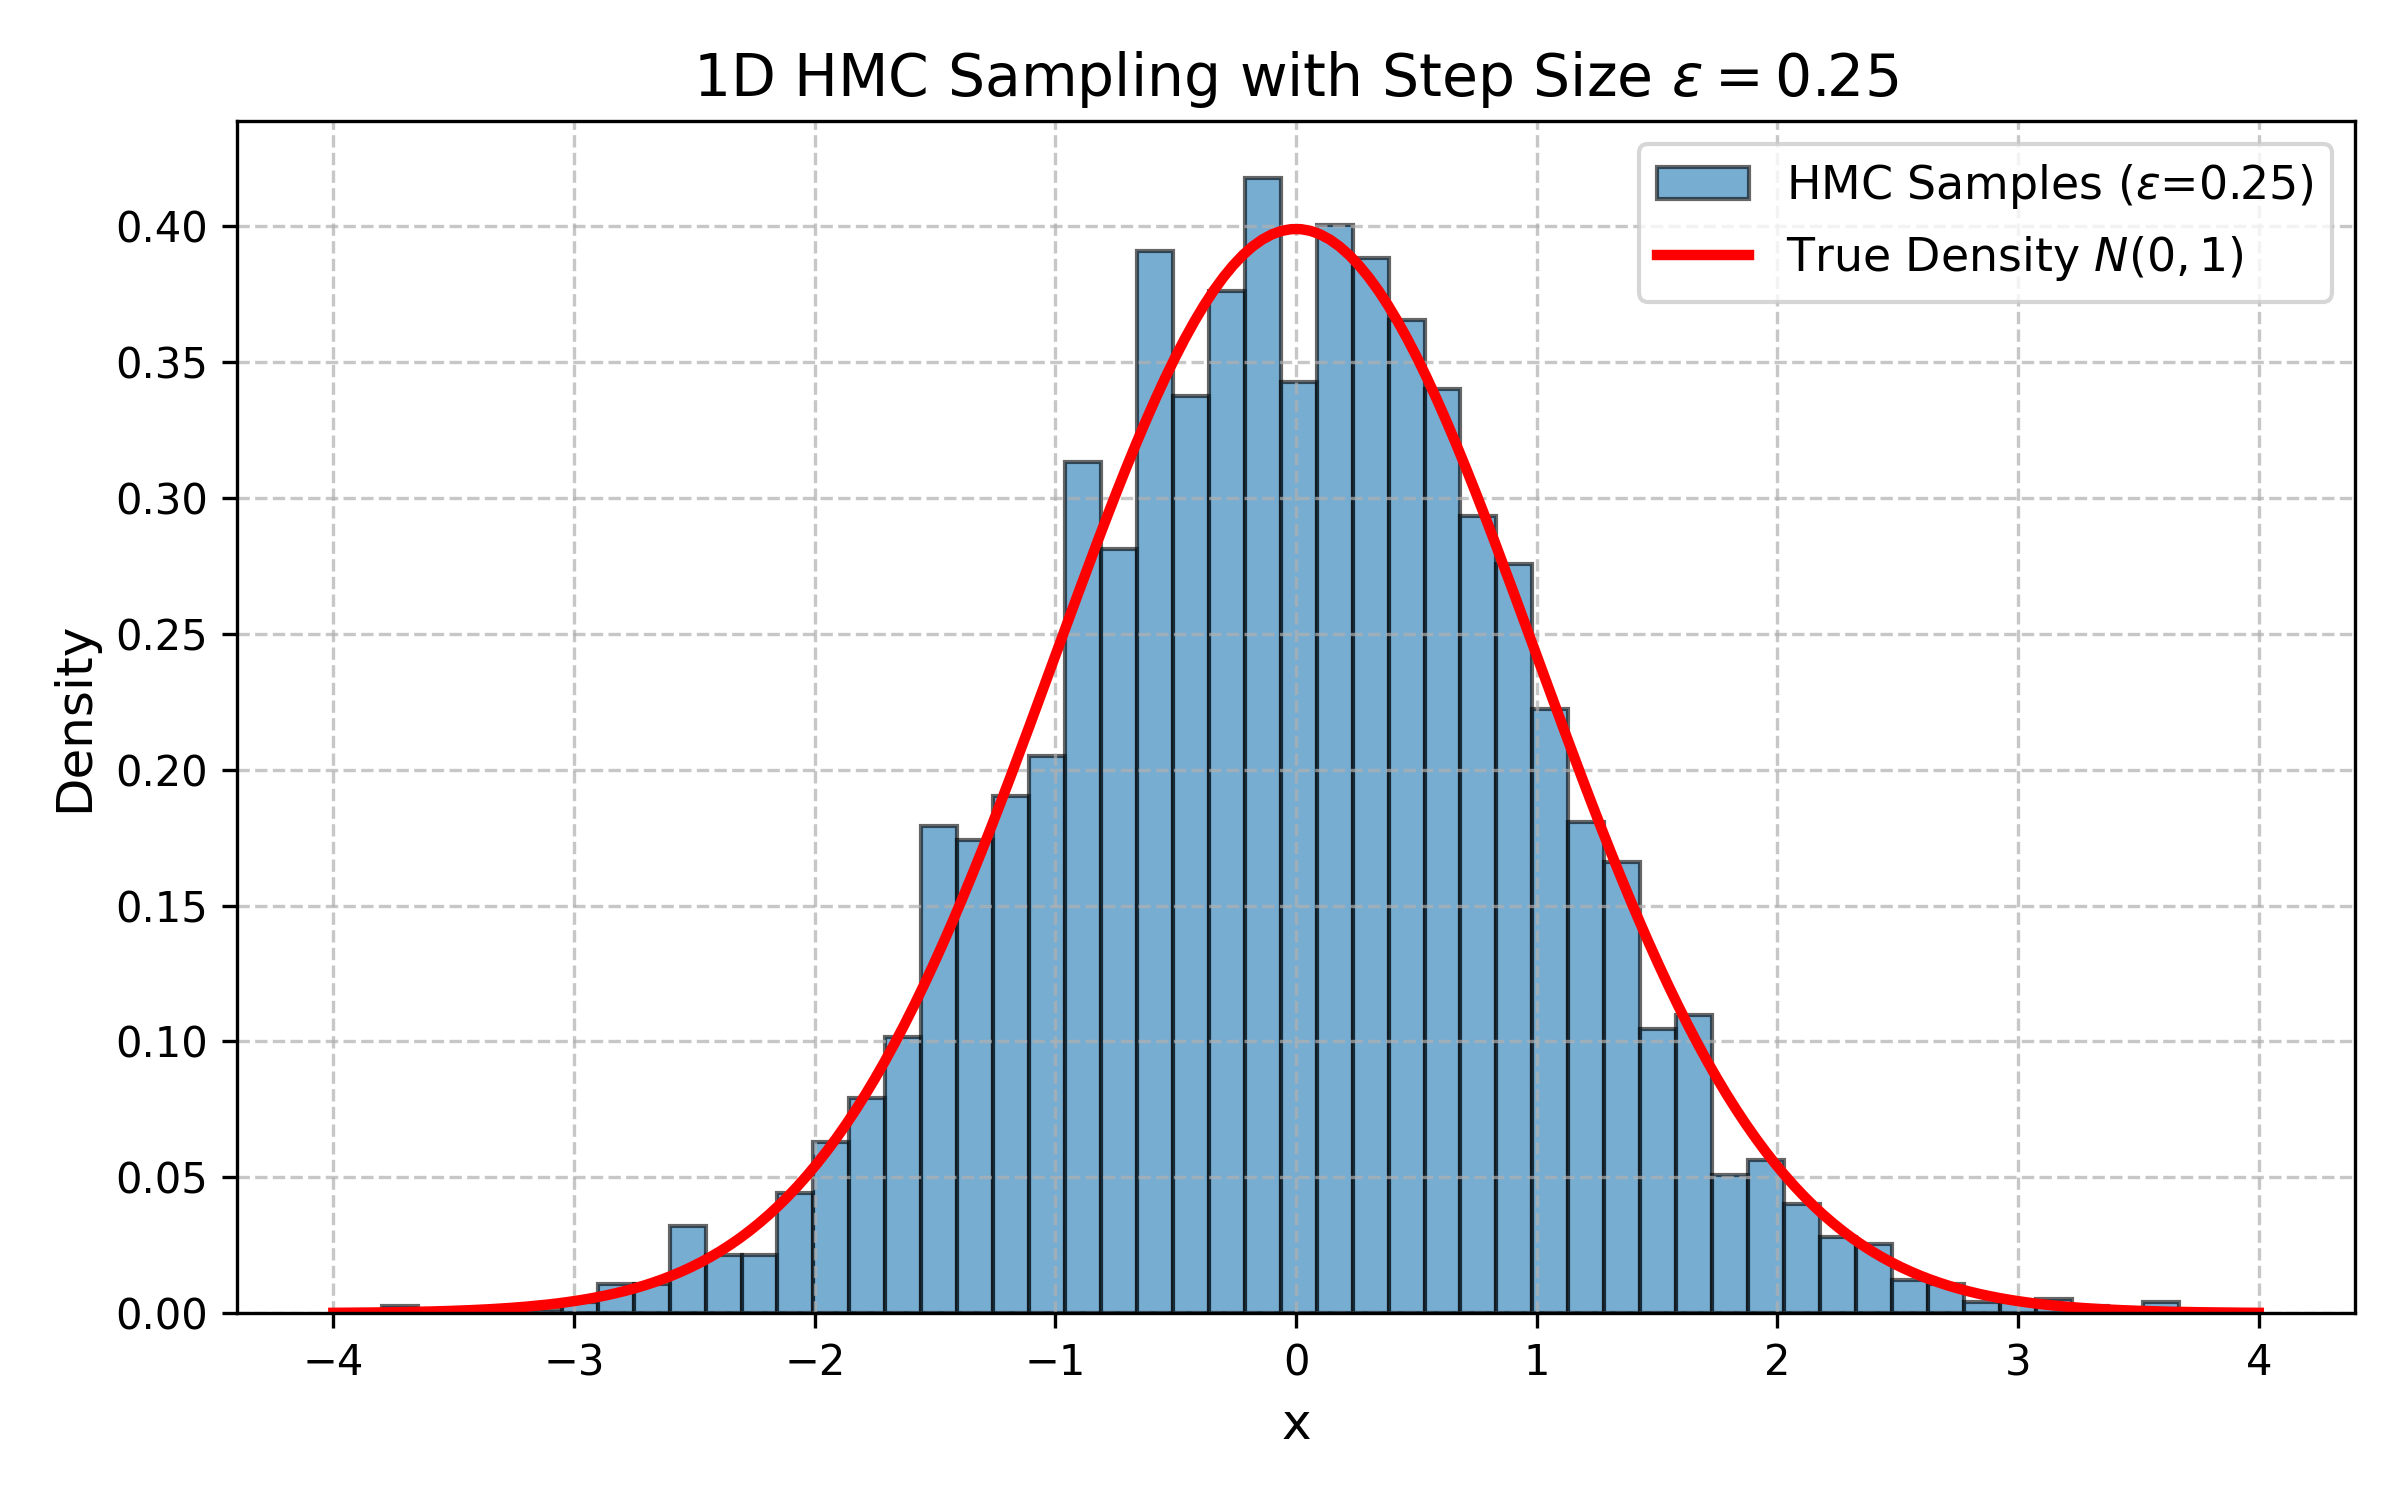
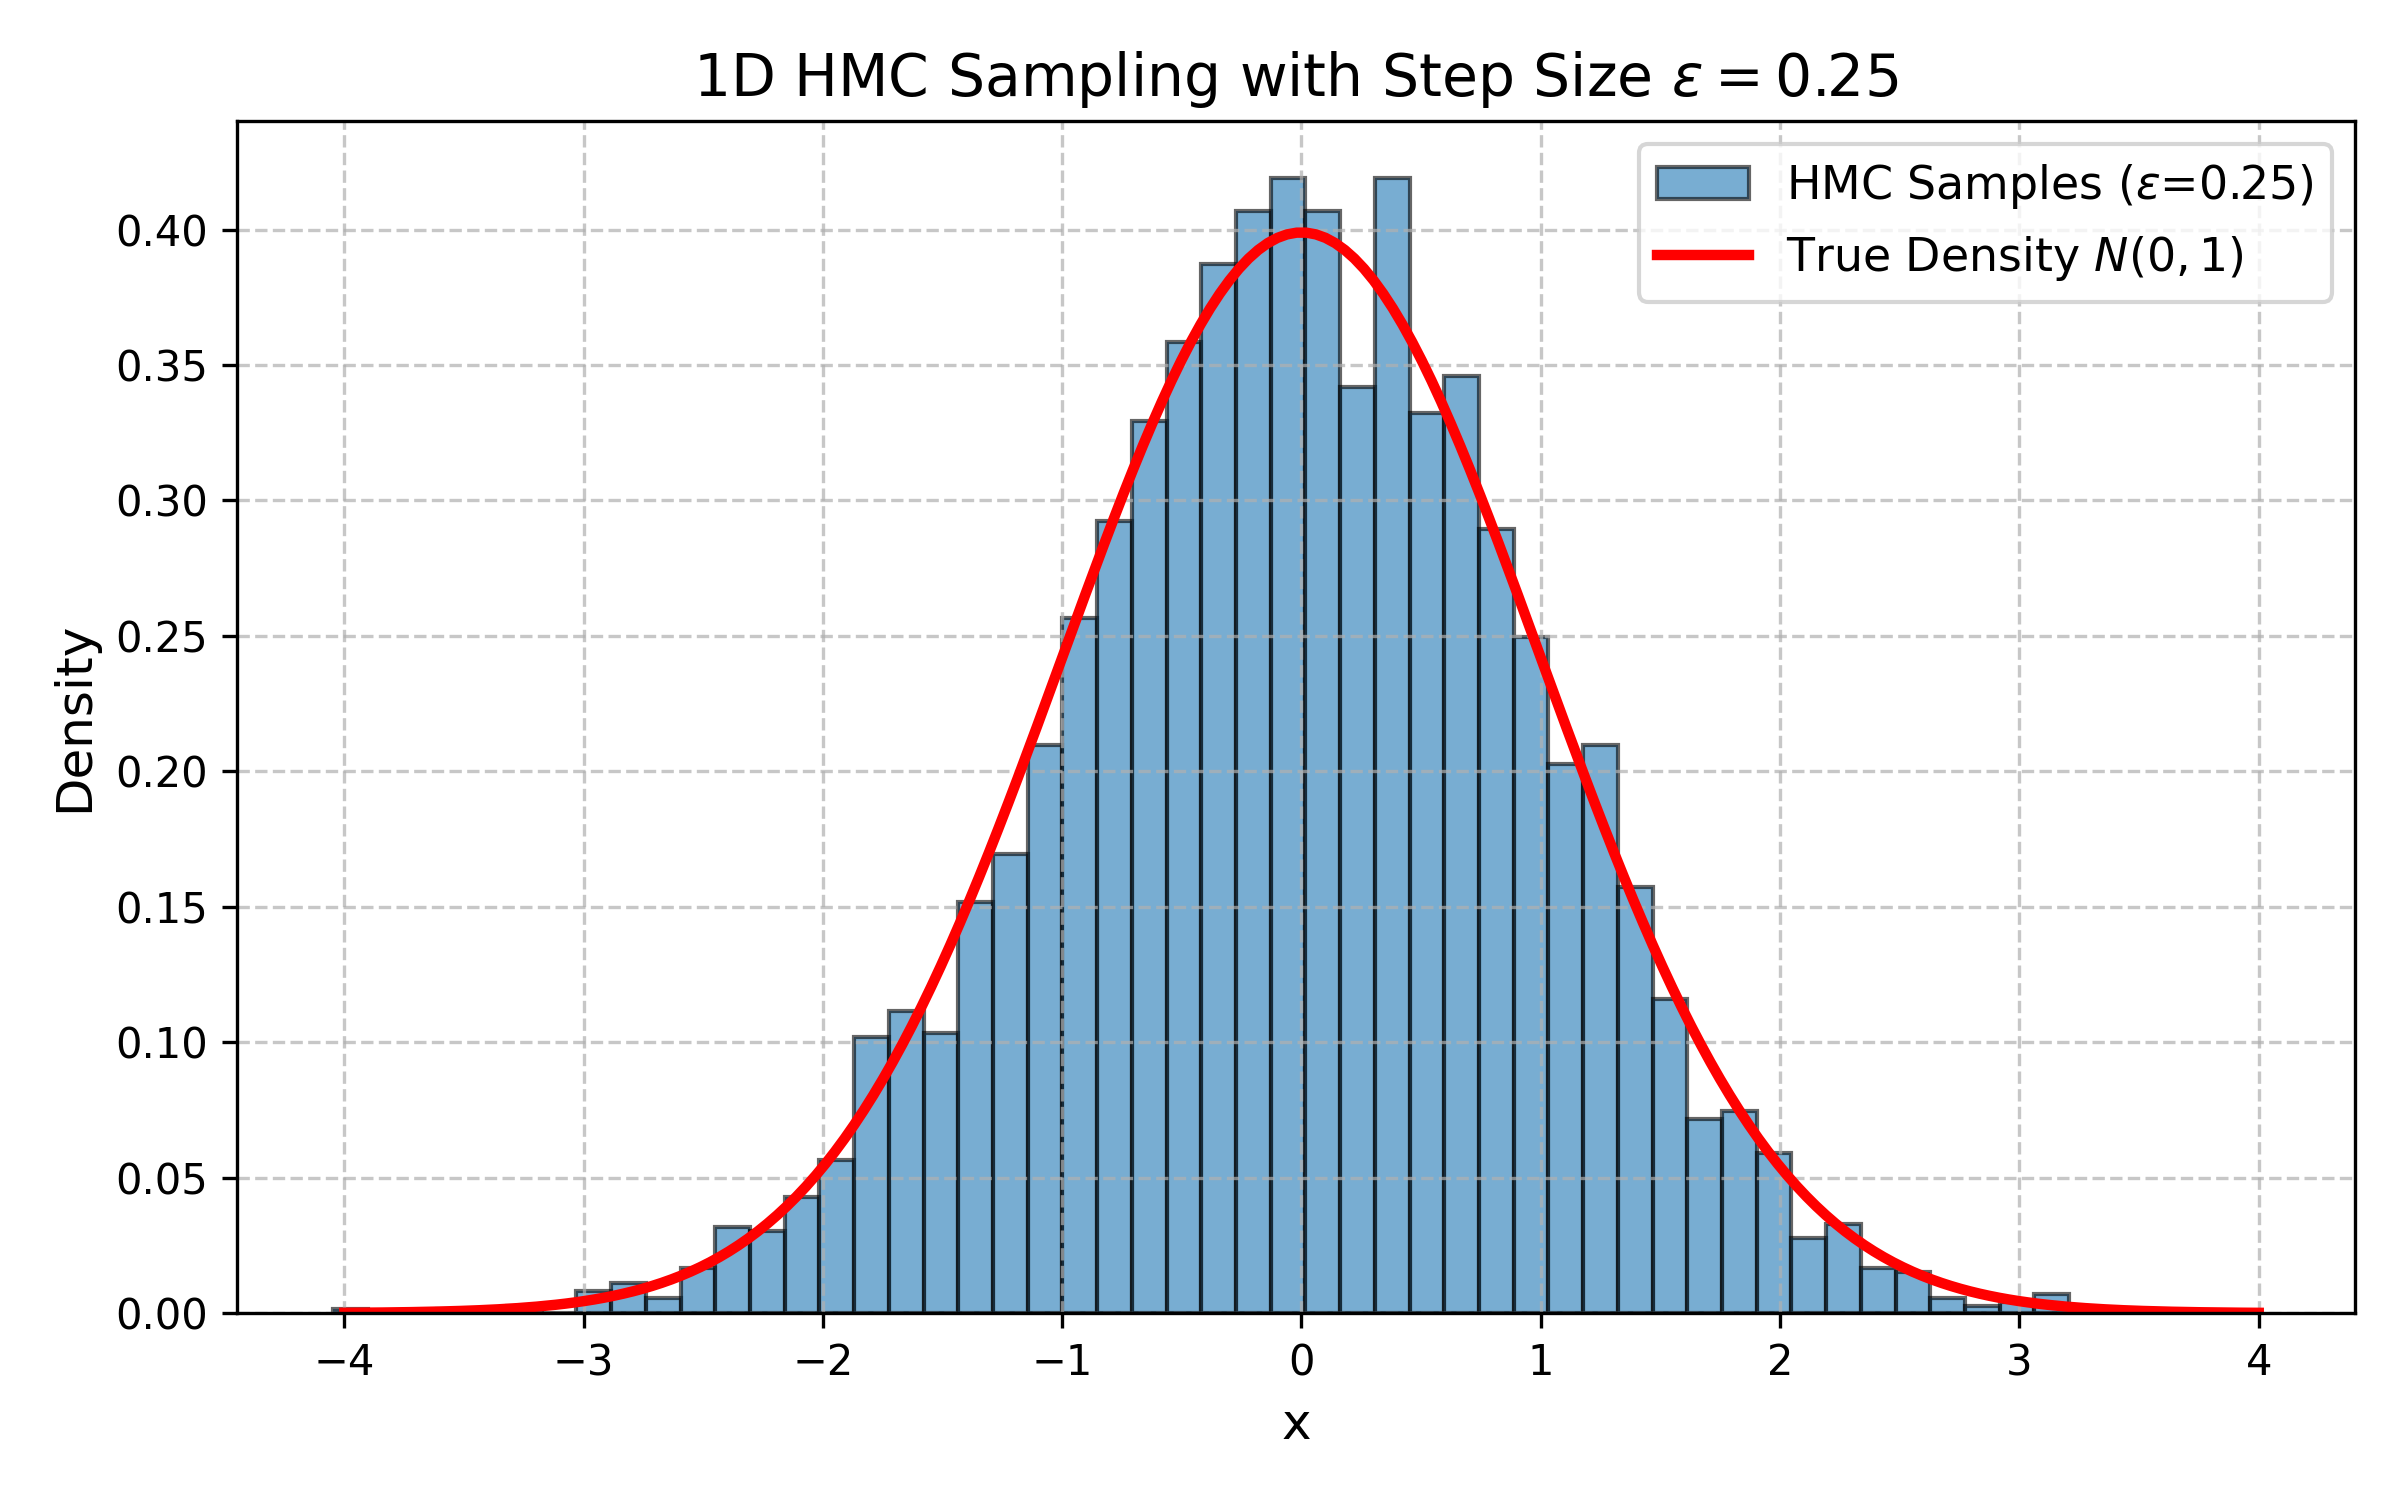
Update seed and re-generate figures and report

diff --git a/tutorial7_report.tex b/tutorial7_report.tex
@@ -71,7 +71,7 @@ We ran the 1D HMC sampler targeting a standard normal distribution, $\mathcal{N}
     \label{fig:eps_025}
 \end{figure}
 
-The histogram matches the true standard normal density curve quite well. The measured sample mean was $-0.0243$ and the sample variance was $0.9987$, very close to the true values of $0$ and $1$, respectively. The overall acceptance rate was very high at $99.42\%$. This indicates that the moderate step size of $\epsilon = 0.25$ ensures the numerical leapfrog integration closely approximates the true energy-conserving Hamiltonian dynamics. Because total energy is nearly conserved throughout the trajectory, the Metropolis correction step almost always accepts the proposed states.
+The histogram matches the true standard normal density curve quite well. The measured sample mean was $-0.0078$ and the sample variance was $0.9654$, very close to the true values of $0$ and $1$, respectively. The overall acceptance rate was very high at $99.42\%$. This indicates that the moderate step size of $\epsilon = 0.25$ ensures the numerical leapfrog integration closely approximates the true energy-conserving Hamiltonian dynamics. Because total energy is nearly conserved throughout the trajectory, the Metropolis correction step almost always accepts the proposed states.
 
 \section{Question 3: HMC with Step Size $\epsilon = 0.8$}
 
@@ -84,7 +84,7 @@ Next, the experiment was modified by increasing the step size to $\epsilon = 0.8
     \label{fig:eps_08}
 \end{figure}
 
-With this larger step size, the overall acceptance rate dropped to $96.55\%$. The generated samples yielded a mean of $-0.0073$ and a variance of $0.9330$. The noticeable decrease in variance indicates a marginally poorer approximation of the target density, primarily due to integration error. 
+With this larger step size, the overall acceptance rate dropped to $95.78\%$. The generated samples yielded a mean of $0.0003$ and a variance of $0.9573$. The noticeable decrease in variance indicates a marginally poorer approximation of the target density, primarily due to integration error. 
 
 A larger leapfrog step size introduces larger discretization errors during the numerical integration of Hamiltonian dynamics. As a result, the Hamiltonian (total energy) is not conserved as accurately as with smaller steps. The Metropolis acceptance criterion corrects for these numerical errors by rejecting proposals that exhibit significantly different energies, which explains the lower acceptance rate and slightly skewed sample metrics.
 
@@ -111,7 +111,7 @@ Time-reversibility is achieved via perfectly symmetric half-steps of momentum in
 
 \section{Conclusion}
 
-Hamiltonian Monte Carlo represents a significant improvement over simple random-walk Metropolis-Hastings by utilizing gradient information and auxiliary momentum to propose new states. Our 1D implementation demonstrates that HMC can reliably and efficiently sample from a standard normal distribution. We observed that smaller leapfrog steps yield more accurate energy conservation and higher acceptance rates ($99.42\%$ at $\epsilon = 0.25$), whereas larger steps increase integration error and moderately reduce acceptance ($96.55\%$ at $\epsilon = 0.8$). Ultimately, HMC's use of Hamiltonian trajectories makes it a robust algorithm for navigating high-dimensional and strongly correlated probability spaces.
+Hamiltonian Monte Carlo represents a significant improvement over simple random-walk Metropolis-Hastings by utilizing gradient information and auxiliary momentum to propose new states. Our 1D implementation demonstrates that HMC can reliably and efficiently sample from a standard normal distribution. We observed that smaller leapfrog steps yield more accurate energy conservation and higher acceptance rates ($99.42\%$ at $\epsilon = 0.25$), whereas larger steps increase integration error and moderately reduce acceptance ($95.78\%$ at $\epsilon = 0.8$). Ultimately, HMC's use of Hamiltonian trajectories makes it a robust algorithm for navigating high-dimensional and strongly correlated probability spaces.
 
 \section*{Appendix: Python Source Code}
 % The code listing formatting is handled by the lstset block 

diff --git a/tutorial7_hmc.py b/tutorial7_hmc.py
@@ -92,7 +92,7 @@ def hmc_sampler(mu, sigma, step_size, num_steps, num_samples, initial_q):
 
 def run_experiment(step_size, num_steps, num_samples, mu, sigma, suffix):
     """Helper to run the sampler, print statistics, and save samples."""
-    np.random.seed(42)
+    np.random.seed(100263058)
     initial_q = 0.0
     
     print(f"--- Experiment: Step Size (epsilon) = {step_size} ---")
